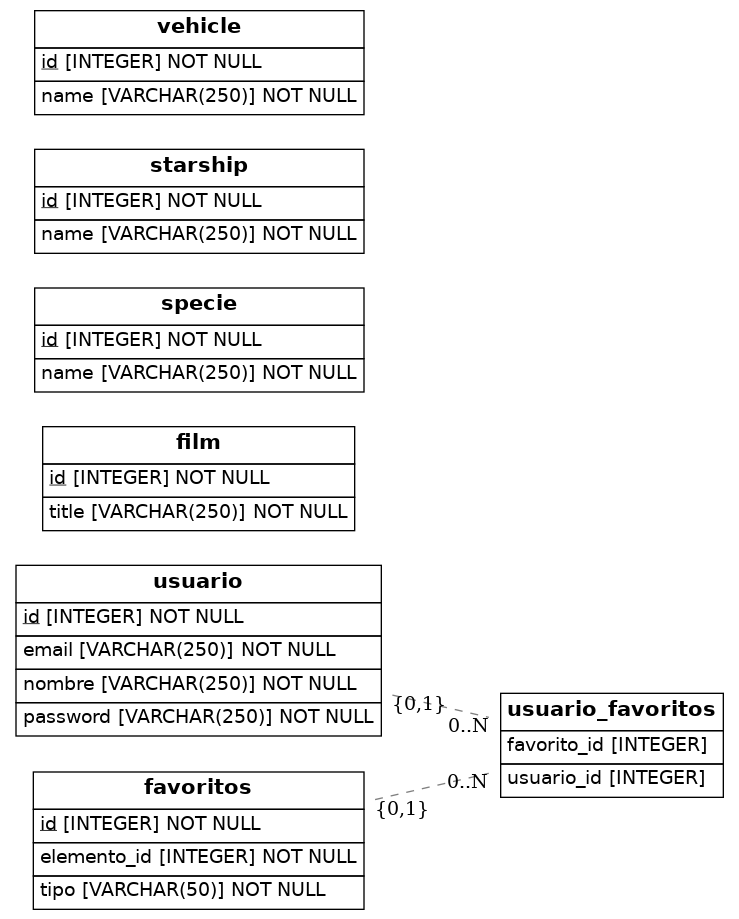
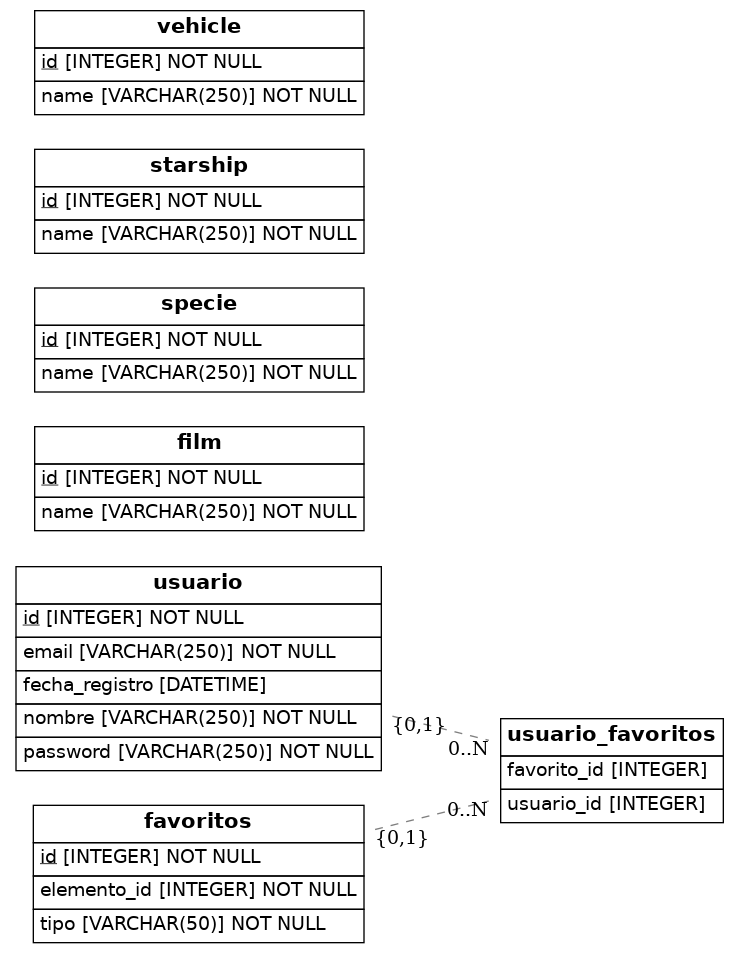
cambios

Changed region(s): [[0.0311, 0.1523, 0.6536, 1.0], [0.0311, 0.0, 0.498, 0.1219], [0.6847, 0.7312, 0.9648, 0.8836]]

diff --git a/src/models.py b/src/models.py
@@ -1,10 +1,11 @@
 # Importación de los módulos necesarios
 import os  # Permite interactuar con el sistema operativo
 import sys  # Proporciona funciones y variables que se utilizan para manipular diferentes partes del entorno de Python
-from sqlalchemy import Column, ForeignKey, Integer, String, Table  # Importa clases y funciones necesarias de SQLAlchemy
+from sqlalchemy import Column, ForeignKey, Integer, String, Table, DateTime  # Importa clases y funciones necesarias de SQLAlchemy
 from sqlalchemy.orm import relationship, declarative_base  # Importa clases y funciones necesarias de SQLAlchemy
 from sqlalchemy import create_engine  # Importa la función create_engine de SQLAlchemy para crear el motor de la base de datos
 from eralchemy2 import render_er  # Importa la función render_er de eralchemy2 para generar el diagrama ER
+from datetime import datetime
 
 # Declaración de la clase base para las clases de las entidades
 Base = declarative_base()
@@ -17,7 +18,6 @@ usuario_favoritos = Table('usuario_favoritos', Base.metadata, #Base.metadata en 
     Column('favorito_id', Integer, ForeignKey('favoritos.id'))
 )
 
-
 # Definición de la entidad Usuario
 class Usuario(Base):
     __tablename__ = 'usuario'  # Nombre de la tabla en la base de datos
@@ -25,6 +25,7 @@ class Usuario(Base):
     nombre = Column(String(250), nullable=False)  # Define una columna para el nombre del usuario
     email = Column(String(250), nullable=False, unique=True)  # Define una columna para el correo electrónico del usuario, único
     password = Column(String(250), nullable=False)  # Define una columna para la contraseña del usuario
+    fecha_registro = Column(DateTime, default=datetime.now)
     # Relación uno a muchos con la tabla Favoritos
     favoritos = relationship("Favoritos", secondary=usuario_favoritos, back_populates="usuarios")  # Define la relación entre Usuario y Favoritos
 
@@ -41,7 +42,7 @@ class Favoritos(Base):
 class Film(Base):
     __tablename__ = 'film'  # Nombre de la tabla en la base de datos
     id = Column(Integer, primary_key=True)  # Define una columna para el ID de la película
-    title = Column(String(250), nullable=False)  # Define una columna para el título de la película
+    name = Column(String(250), nullable=False)  # Define una columna para el título de la película
     #director = Column(String(250))  # Define una columna para el director de la película
 
 # Definición de la entidad Specie
